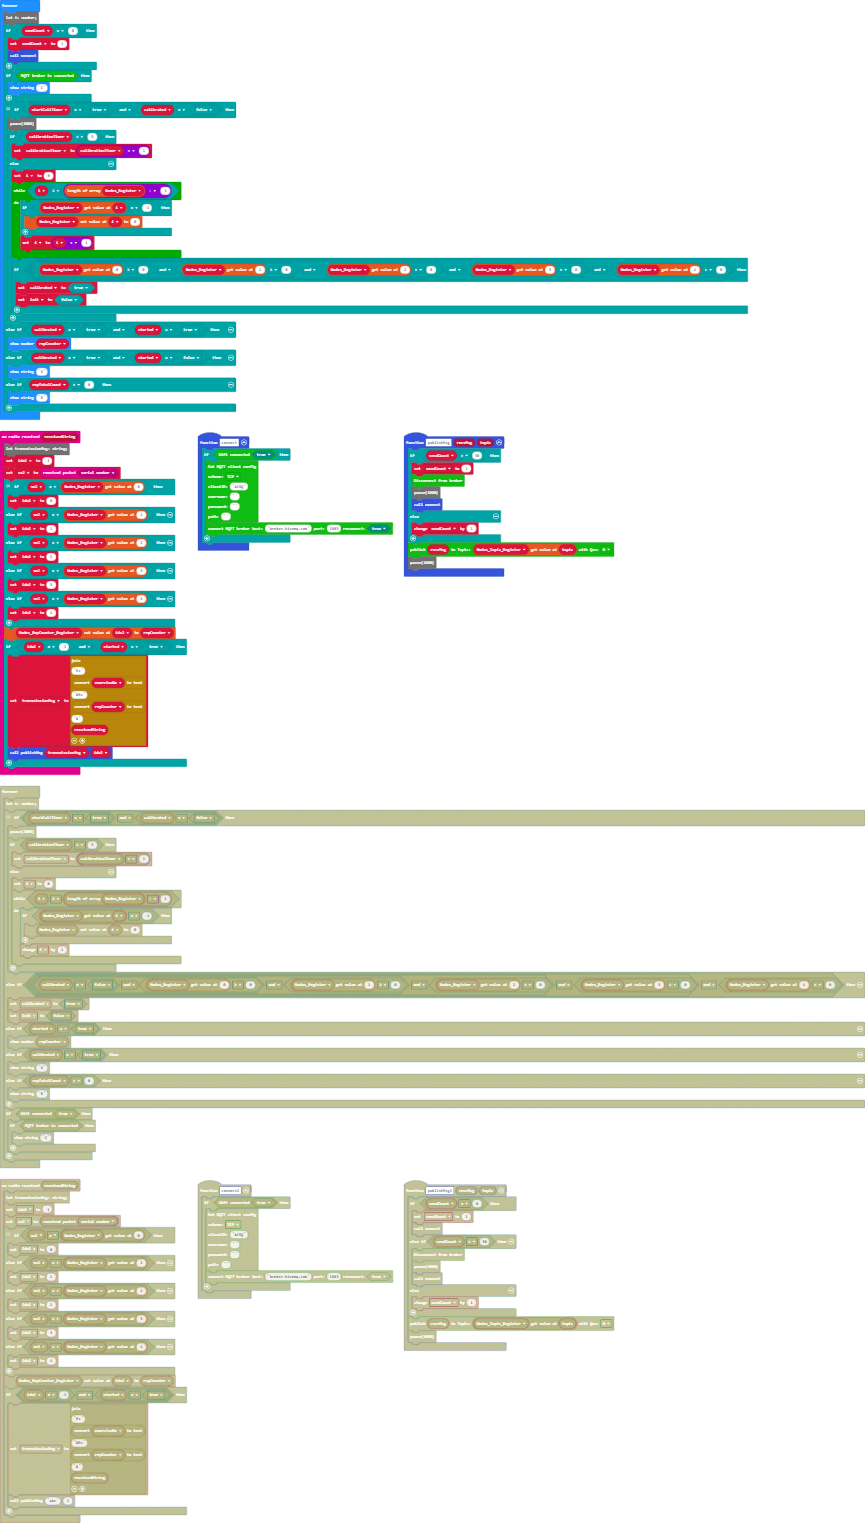
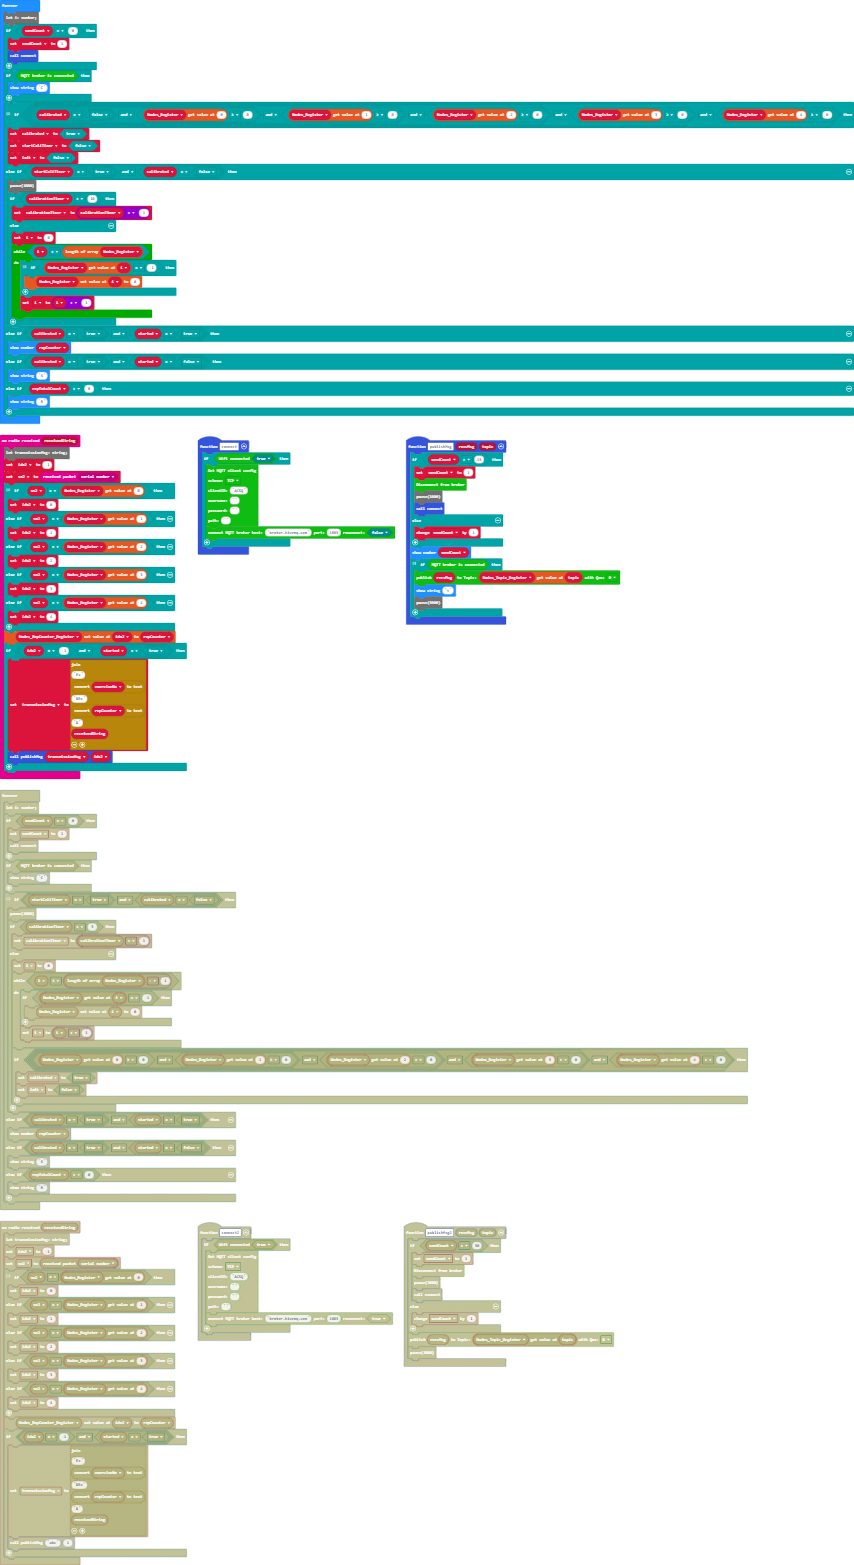
Update main.blocks, main.ts, main.py

Changed region(s): [[0.0, 0.0, 1.0, 0.9875]]

diff --git a/main.ts b/main.ts
@@ -1,7 +1,7 @@
 function connect() {
     if (ESP8266_IoT.wifiState(true)) {
         ESP8266_IoT.setMQTT(ESP8266_IoT.SchemeList.TCP, "ACSQ", "", "", "")
-        ESP8266_IoT.connectMQTT("broker.hivemq.com", 1883, true)
+        ESP8266_IoT.connectMQTT("broker.hivemq.com", 1883, false)
     }
     
 }
@@ -122,7 +122,7 @@ radio.onReceivedValue(function on_received_value(name: string, value: number) {
 })
 function publishMsg(recvMsg: string, topic: number) {
     
-    if (sendCount > 30) {
+    if (sendCount > 15) {
         sendCount = 1
         ESP8266_IoT.breakMQTT()
         pause(1000)
@@ -131,8 +131,14 @@ function publishMsg(recvMsg: string, topic: number) {
         sendCount += 1
     }
     
-    ESP8266_IoT.publishMqttMessage(recvMsg, Nodes_Topic_Register[topic], ESP8266_IoT.QosList.Qos0)
-    pause(1000)
+    basic.showNumber(sendCount)
+    // basic.show_number(topic)
+    if (ESP8266_IoT.isMqttBrokerConnected()) {
+        ESP8266_IoT.publishMqttMessage(recvMsg, Nodes_Topic_Register[topic], ESP8266_IoT.QosList.Qos0)
+        basic.showString("t")
+        pause(3000)
+    }
+    
 }
 
 let calibrationTimer = 0
@@ -140,10 +146,10 @@ let sendCount = 0
 let nextRepCount = 0
 let init = false
 let sn = 0
-let idx = 0
-let exerciseNo = 0
 let sn2 = 0
+let idx = 0
 let idx2 = 0
+let exerciseNo = 0
 let startCaliTimer = false
 let repCounter = 0
 let started = false
@@ -177,12 +183,12 @@ basic.forever(function on_forever() {
         init = false
     } else if (startCaliTimer == true && calibrated == false) {
         pause(1000)
-        if (calibrationTimer < 5) {
+        if (calibrationTimer < 10) {
             calibrationTimer = calibrationTimer + 1
         } else {
             i = 0
             while (i < Nodes_Register.length) {
-                basic.showNumber(Nodes_Register[i])
+                //  basic.show_number(Nodes_Register[i])
                 if (Nodes_Register[i] == -1) {
                     Nodes_Register[i] = 0
                 }

diff --git a/main.py b/main.py
@@ -1,7 +1,7 @@
 def connect():
     if ESP8266_IoT.wifi_state(True):
         ESP8266_IoT.set_mqtt(ESP8266_IoT.SchemeList.TCP, "ACSQ", "", "", "")
-        ESP8266_IoT.connect_mqtt("broker.hivemq.com", 1883, True)
+        ESP8266_IoT.connect_mqtt("broker.hivemq.com", 1883, False)
 
 def on_button_pressed_ab():
     global started, repCounter, startCaliTimer
@@ -15,7 +15,7 @@ def on_button_pressed_ab():
 input.on_button_pressed(Button.AB, on_button_pressed_ab)
 
 def on_received_string(receivedString):
-    global idx2, sn2
+    global idx2, sn2, started
     idx2 = -1
     sn2 = radio.received_packet(RadioPacketProperty.SERIAL_NUMBER)
     # Index ENUM: LH, RH, W, LL, RL,
@@ -99,26 +99,30 @@ radio.on_received_value(on_received_value)
 
 def publishMsg(recvMsg: str, topic: number):
     global sendCount
-    if sendCount > 30:
+    if sendCount > 15:
         sendCount = 1
         ESP8266_IoT.break_mqtt()
         pause(1000)
         connect()
     else:
         sendCount += 1
-    ESP8266_IoT.publish_mqtt_message(recvMsg,
-        Nodes_Topic_Register[topic],
-        ESP8266_IoT.QosList.QOS0)
-    pause(1000)
+    basic.show_number(sendCount)
+    #basic.show_number(topic)
+    if ESP8266_IoT.is_mqtt_broker_connected():
+        ESP8266_IoT.publish_mqtt_message(recvMsg,
+            Nodes_Topic_Register[topic],
+            ESP8266_IoT.QosList.QOS0)
+        basic.show_string("t")
+        pause(3000)
 calibrationTimer = 0
 sendCount = 0
 nextRepCount = 0
 init = False
 sn = 0
-idx = 0
-exerciseNo = 0
 sn2 = 0
+idx = 0
 idx2 = 0
+exerciseNo = 0
 startCaliTimer = False
 repCounter = 0
 started = False
@@ -139,37 +143,32 @@ ESP8266_IoT.init_wifi(SerialPin.P8, SerialPin.P12, BaudRate.BAUD_RATE115200)
 ESP8266_IoT.connect_wifi("AlanderC", "@landeR$q")
 
 def on_forever():
-    global init, started, repTotalCount, sendCount, startCaliTimer, calibrationTimer, calibrated,  Nodes_Register
+    global sendCount, calibrated, startCaliTimer, init, calibrationTimer
     if sendCount == 0:
         sendCount = 1
         connect()
-
     if ESP8266_IoT.is_mqtt_broker_connected():
         basic.show_string("C")
     # Index ENUM: LH, RH, W, LL, RL
-        
     if calibrated == False and Nodes_Register[0] >= 0 and Nodes_Register[1] >= 0 and Nodes_Register[2] >= 0 and Nodes_Register[3] >= 0 and Nodes_Register[4] >= 0:
         calibrated = True
         startCaliTimer = False
         init = False
-    
     elif startCaliTimer == True and calibrated == False:
         pause(1000)
-        if calibrationTimer < 5:
+        if calibrationTimer < 10:
             calibrationTimer = calibrationTimer + 1
         else:
             i = 0
             while i < len(Nodes_Register):
-                basic.show_number(Nodes_Register[i])
+                # basic.show_number(Nodes_Register[i])
                 if Nodes_Register[i] == -1:
                     Nodes_Register[i] = 0
                 i = i + 1
     elif calibrated == True and started == True:
         basic.show_number(repCounter)
-    
     elif calibrated == True and started == False:
         basic.show_string("S")
-    
     elif repTotalCount > 0:
         basic.show_string("R")
 basic.forever(on_forever)
